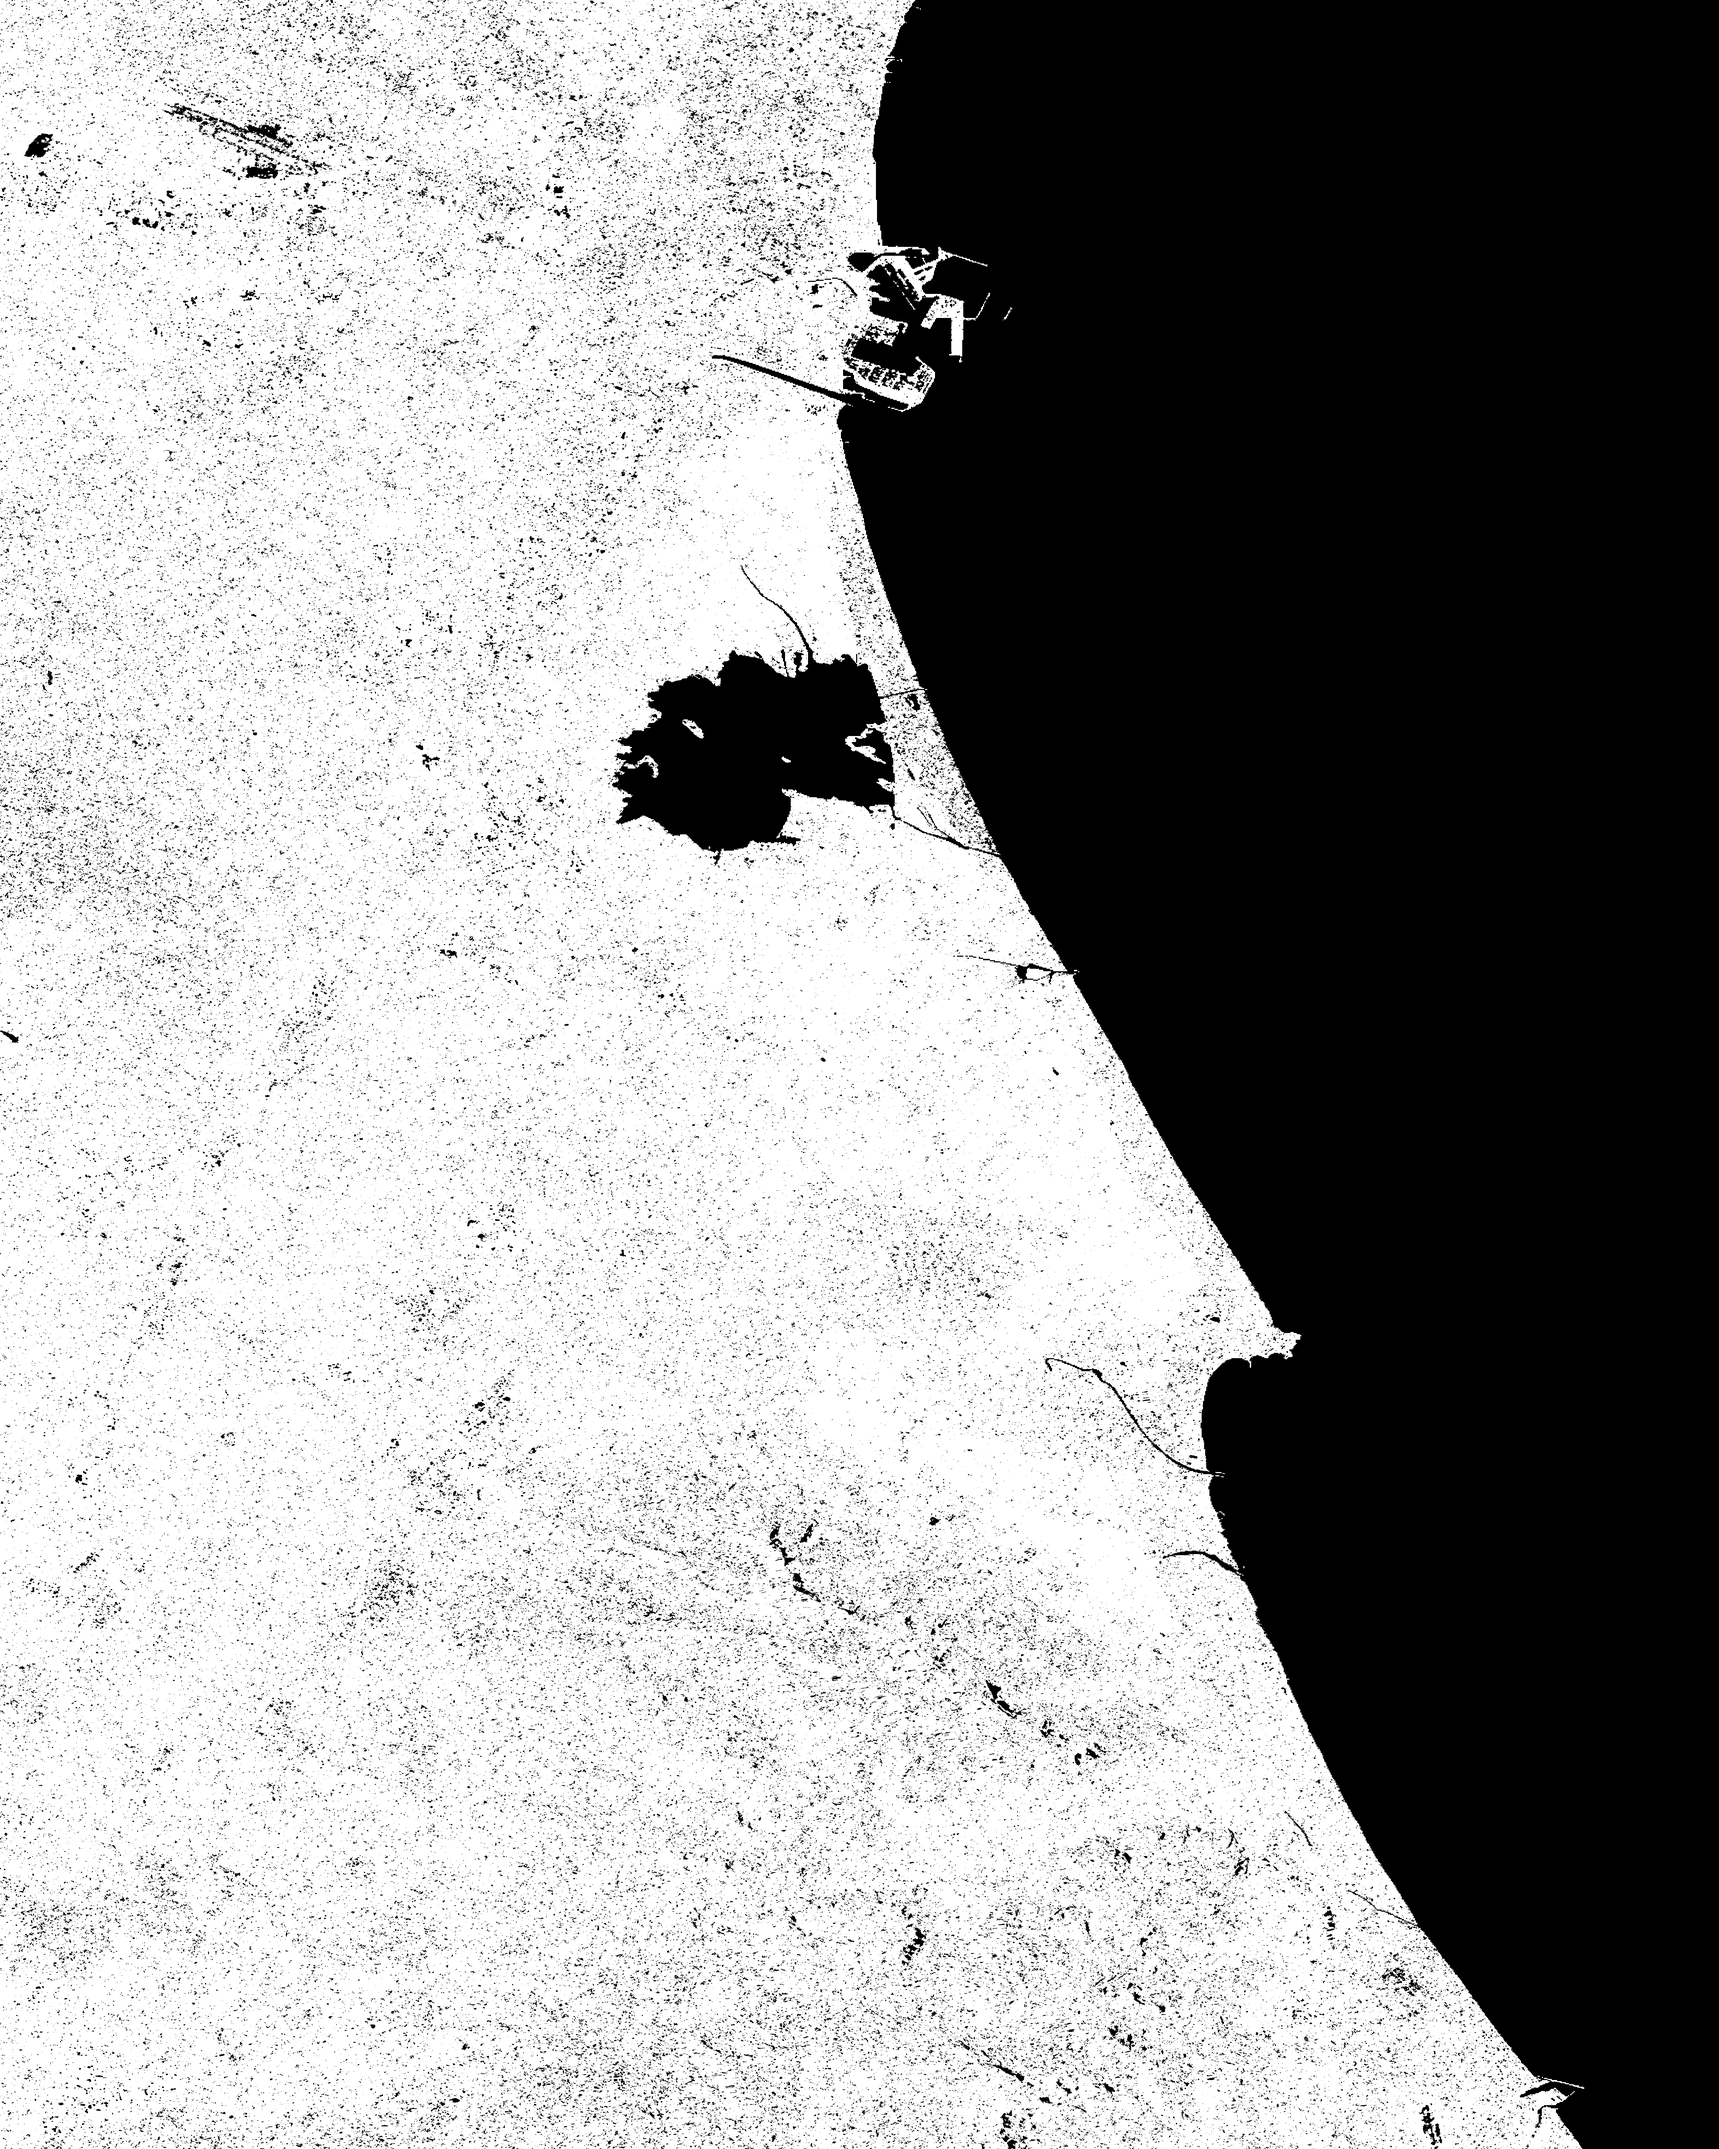
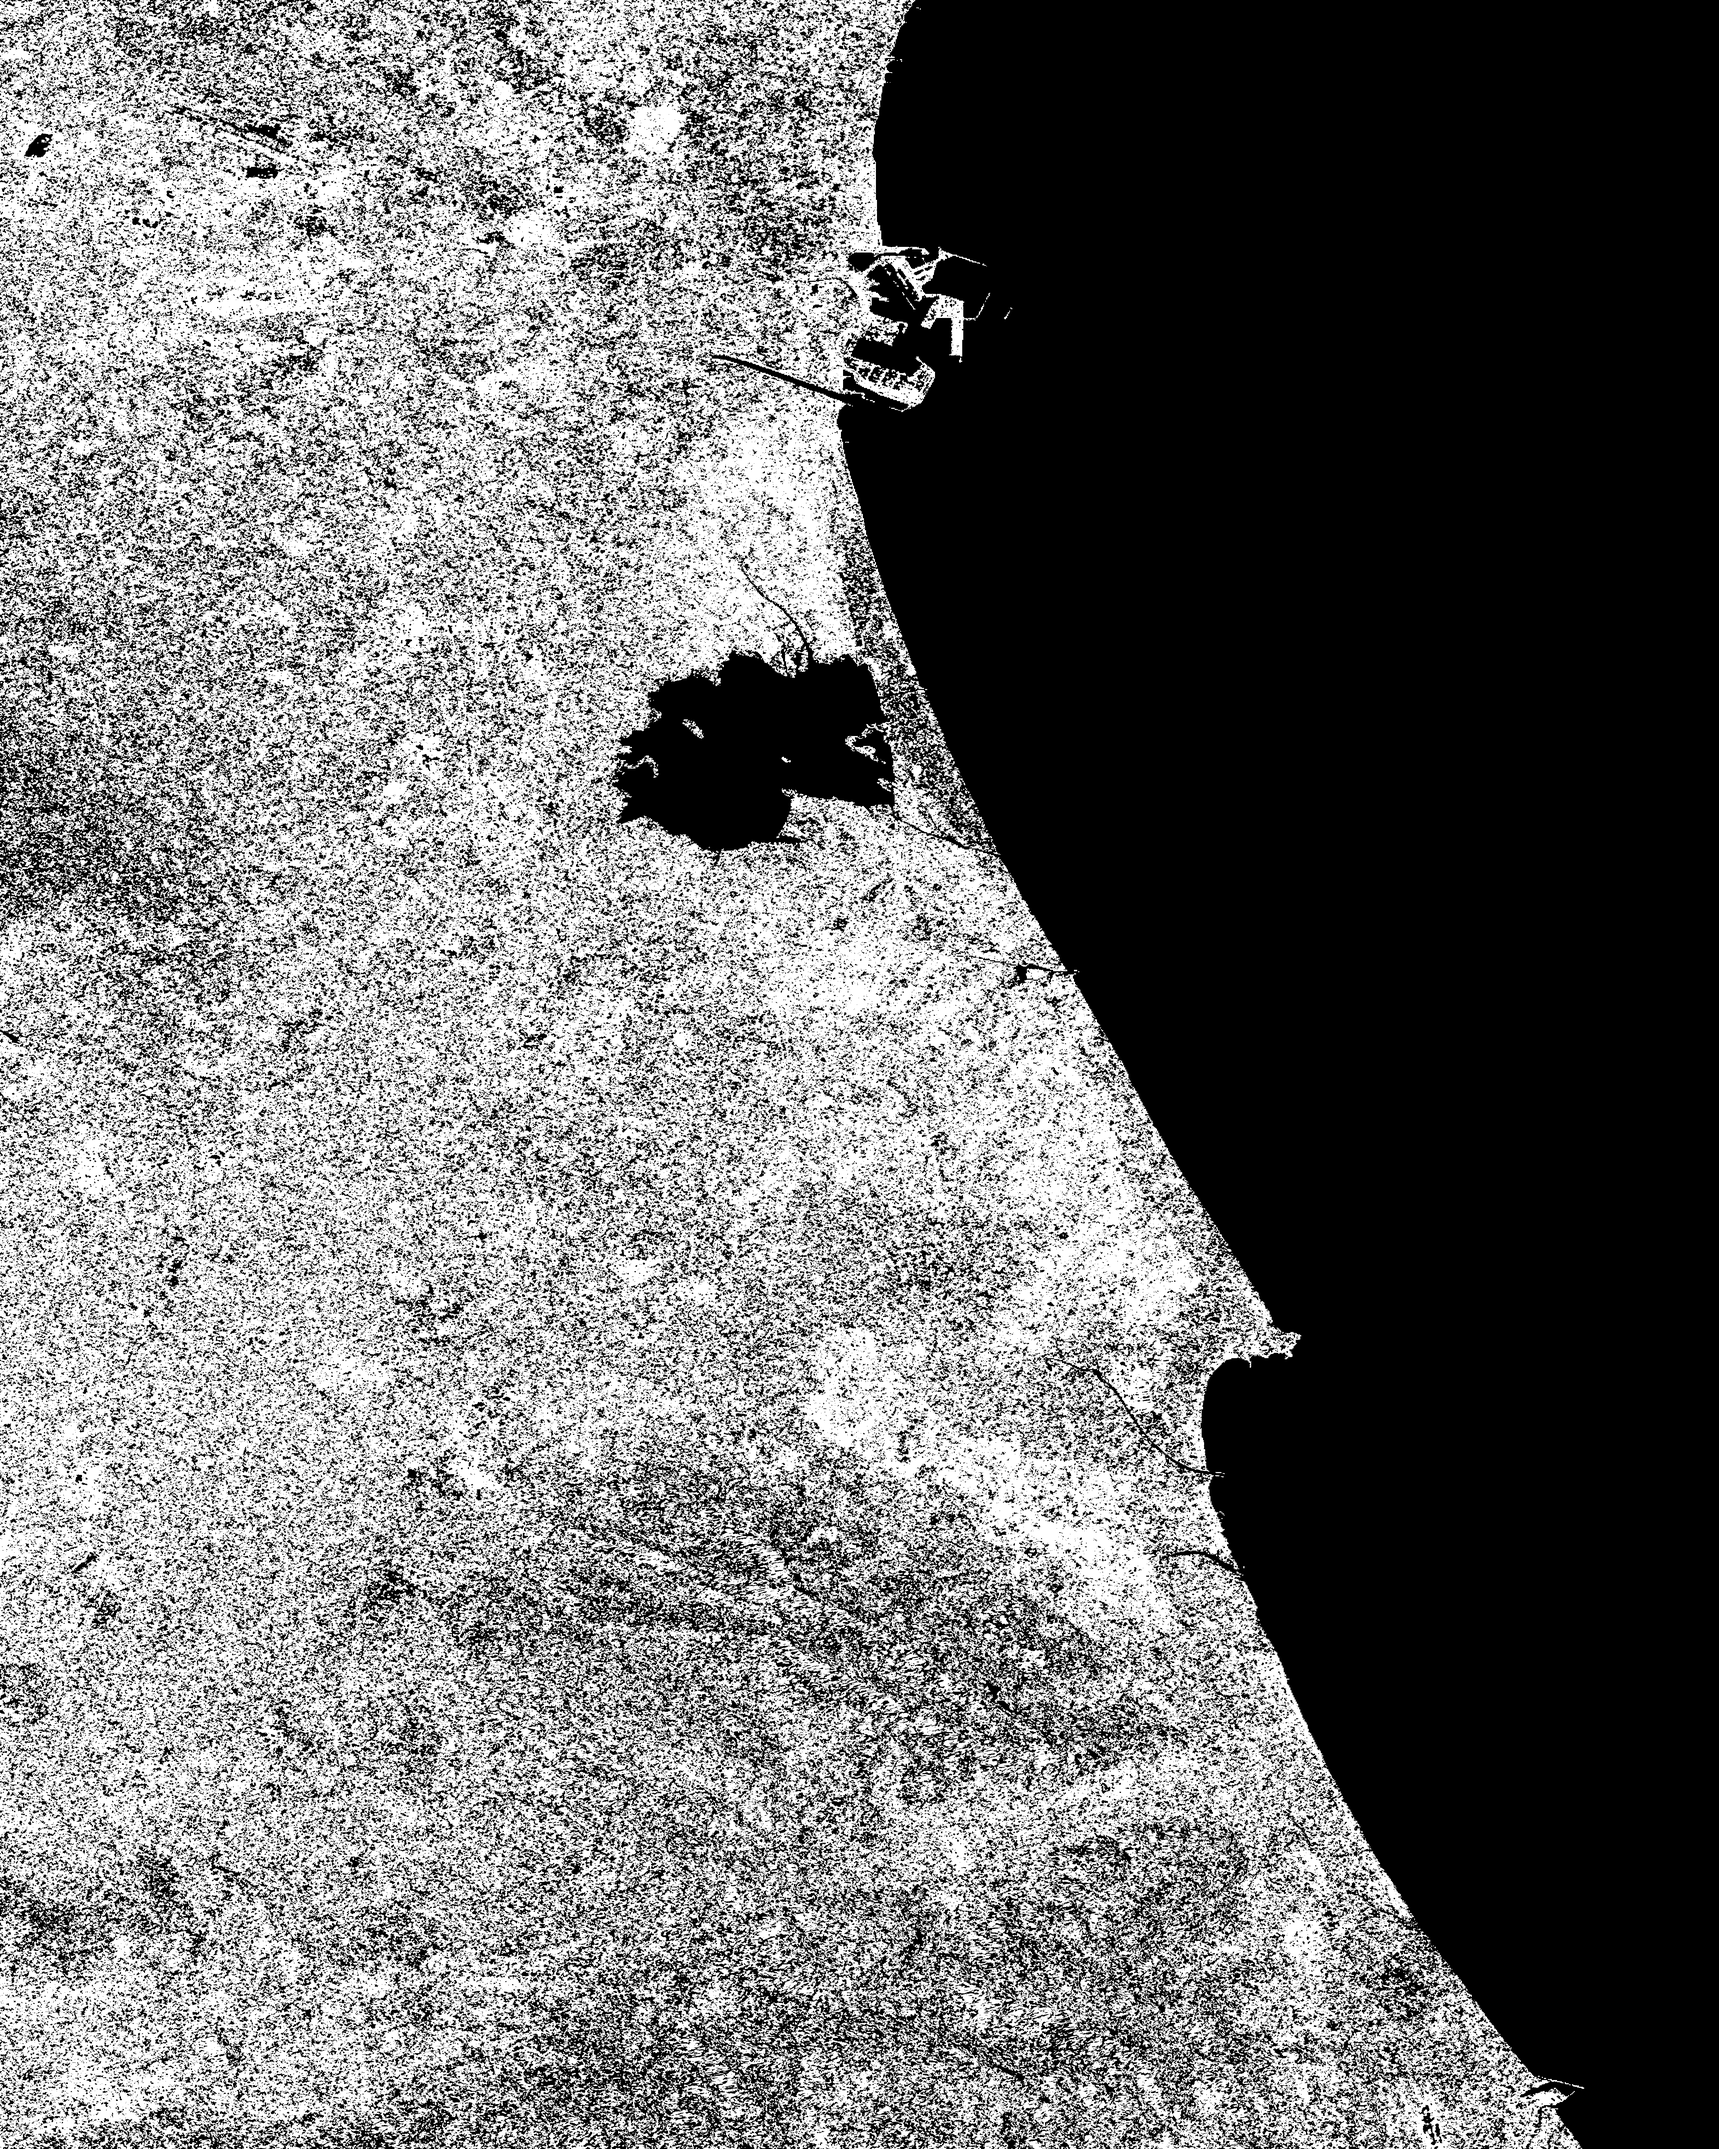
nuevos cambios vegetación

Changed region(s): [[0.0, 0.0, 0.9319, 1.0]]

diff --git a/tipe_terrain.py b/tipe_terrain.py
@@ -2,6 +2,7 @@ import numpy as np
 import rasterio
 from PIL import Image
 import os
+from scipy.ndimage import convolve
 from dotenv import load_dotenv
 
 # Agua
@@ -19,7 +20,7 @@ COEF_ARROZAL = {
 
 # Vegetación
 COEF_VEGETACION = {
-    "ratio_min": 0.5
+    "ratio_min": 0.3
 }
 
 # Urbano/rocoso
@@ -51,10 +52,19 @@ def main():
     print("Clasificando terreno en capas...")
     agua, arrozal, vegetacion, urbano, tierra = clasificar_terreno(vh, vv)
     
+    print("Filtrando falsos positivos...")
+    agua      = filtrar_falsos_positivos(agua)
+    arrozal   = filtrar_falsos_positivos(arrozal)
+    vegetacion= filtrar_falsos_positivos(vegetacion)
+    urbano    = filtrar_falsos_positivos(urbano)
+    tierra    = filtrar_falsos_positivos(tierra)
+
     # Normalizar altura
     print("Procesando altura...")
     altura_16bit = normalizar_altura(altura, bits=16)
     
+
+
     # Guardar PNGs en la carpeta
     print("Guardando imágenes...")
     Image.fromarray(altura_16bit, mode='I;16').save(os.path.join(carpeta_salida, 'layer_height.png'))
@@ -66,6 +76,28 @@ def main():
     
     print(f"\n¡Completado! Archivos guardados en: {carpeta_salida}/")
 
+def filtrar_falsos_positivos(matriz, umbral_vecinos=3):
+    """
+    Aplica convolución 2D para eliminar falsos positivos aislados en una máscara binaria.
+    - matriz: np.ndarray binaria (0/255).
+    - umbral_vecinos: número mínimo de vecinos necesarios para conservar el píxel.
+    Retorna la matriz filtrada.
+    """
+    # Kernel 3x3 que cuenta los vecinos (excepto el centro)
+    kernel = np.array([[1,1,1],
+                       [1,0,1],
+                       [1,1,1]], dtype=np.uint8)
+
+    # Convertimos la matriz a 0/1
+    binaria = (matriz > 0).astype(np.uint8)
+
+    # Conteo de vecinos con convolución 2D
+    vecinos = convolve(binaria, kernel, mode='constant', cval=0)
+
+    # Decisión: mantener píxel solo si tiene suficientes vecinos
+    filtrada = np.where((binaria == 1) & (vecinos >= umbral_vecinos), 255, 0).astype(np.uint8)
+
+    return filtrada
 
 def leer_geotiff(ruta_archivo):
     """Lee GeoTIFF con bandas VH, VV y altura"""
@@ -131,6 +163,7 @@ def normalizar_altura(altura, bits=16):
     else:
         altura_norm = (altura_norm * 255).astype(np.uint8)
     return altura_norm
+
 
 
 if __name__ == '__main__':
